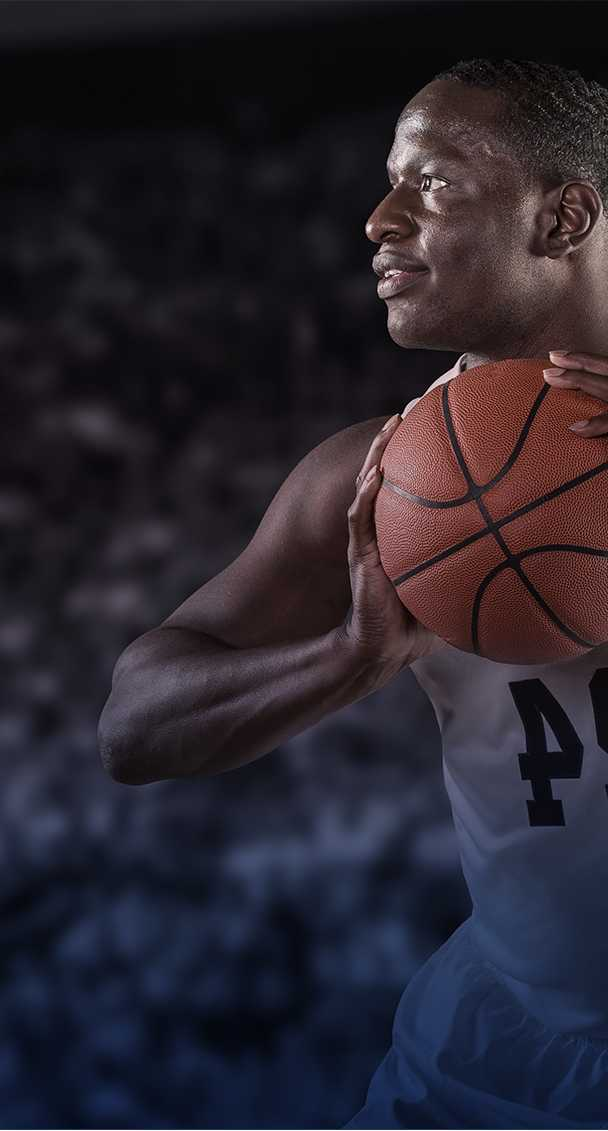
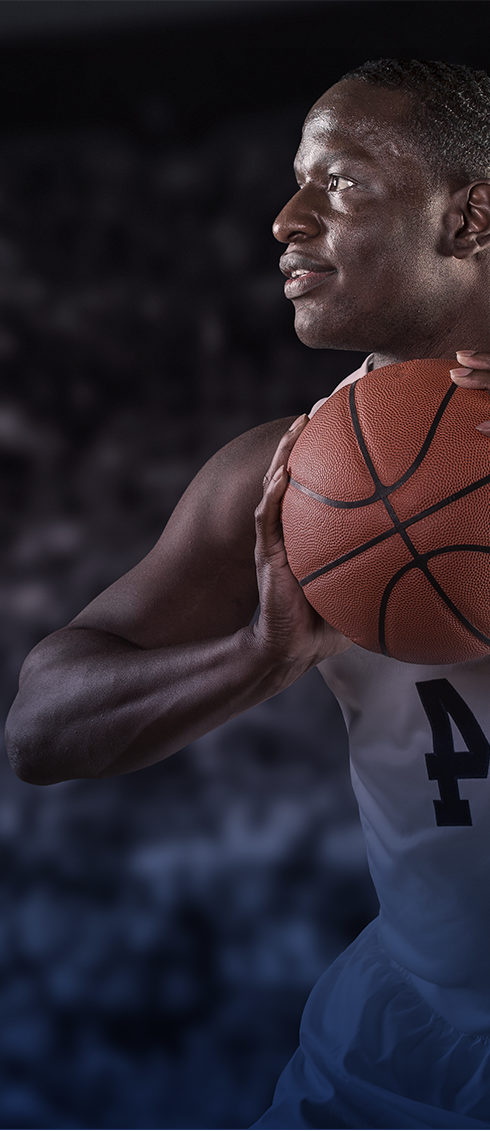
Bg fix

diff --git a/assets/css/styles.css b/assets/css/styles.css
@@ -1,7 +1,7 @@
 @font-face{font-family:"uni";src:url(../fonts/uni.otf) format("truetype")}
 .mobile{display:none}
 img{max-width:100%;width:100%}
-.bg{background:url(../img/bg.jpg);background-size:cover;height:100%;color:#fff;min-height:780px}
+.bg{background:url(../img/bg.jpg);background-size:cover;height: auto;color:#fff;min-height: 850px;}
 .content{width:40%;margin-left:17%;padding-top:79px;min-width:525px}
 .title{font-size:49px;font-family:'uni',sans-serif;font-style:italic;margin-bottom:0;text-transform:uppercase}
 .title span{margin-bottom:6px;display:inline-block;background:#131d49;height:auto;line-height:49px;padding:6px 20px 6px 10px}
@@ -25,20 +25,20 @@ img{max-width:100%;width:100%}
 .content{  min-width: 600px;}
 }
 @media only screen and (max-width: 768px) {
-.bg{background:url(../img/mobBG.jpg);min-height:1113px;background-size:cover}
-.content{width: 100%;min-width: 0;margin-left:0;padding:0;padding-top: 27px;max-width: 500px;margin: auto;}
-.title span{font-size:34px;line-height:34px;margin-bottom: 8px;letter-spacing:.5px;margin-left:10px;padding: 3px 6px;}
+.bg{background:url(../img/mobBG.jpg);/* min-height: 860px; */background-size: cover;}
+.content{width: 100%;min-width: 0;margin-left:0;padding:0;padding-top: 27px;max-width: 500px;margin: auto;padding-bottom: 40px;}
+.title span{font-size: 29px;line-height:34px;margin-bottom: 8px;letter-spacing:.5px;margin-left:10px;padding: 3px 6px;}
 .sub-title{font-size:12px;margin-top:0;padding-left:12px}
 .desc{width:100%;font-size:17px;padding-left:22px;padding-right:5px}
 .icons{width:100%;margin:0;margin-top:20px;margin-bottom:10px}
 .icons>div{padding:0 12px}
 .icons .detail{font-size:15px;margin-top:10px;border:0;line-height:17px}
-.features{width:80%;margin-left:10%;margin-top:22px;padding-left:0;max-width:300px;position:relative;left:50%;margin-left:-150px;margin-bottom:31px}
+.features{/* width:80%; */margin-left:10%;margin-top:22px;padding-left:0;max-width:300px;position:relative;left:50%;margin-left:-150px;margin-bottom:31px;}
 .feature{font-size:15px;margin-bottom:5px;display:inline-block;text-align:center}
 .feature:nth-of-type(3){margin-left:70px}
 .mobile{display:block}
-.slogan.mobile{font-family:"lato";font-size:24px;font-style:normal;margin-bottom:-10px}
-.slogan{text-align:center}
+.slogan.mobile{font-family:"lato";font-size: 23px;font-style:normal;margin-bottom:-10px;}
+.slogan{text-align:center;font-size: 19px;}
 .download{width:230px;left:50%;position:relative;margin-left:-115px!important;display:block;margin-top:21px}
 .apple.download{margin-top:32px}
 .mobile img{width:500px;position:relative;left:50%;margin-left:-250px}
